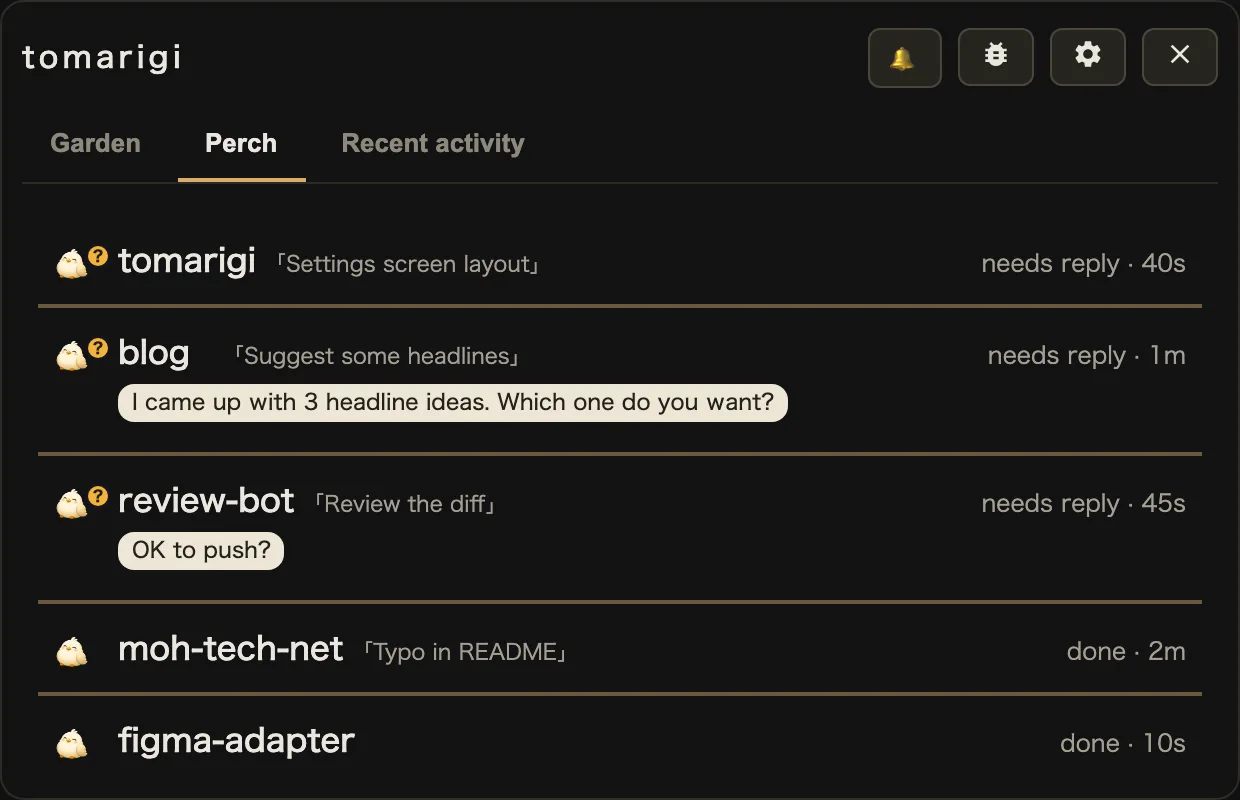
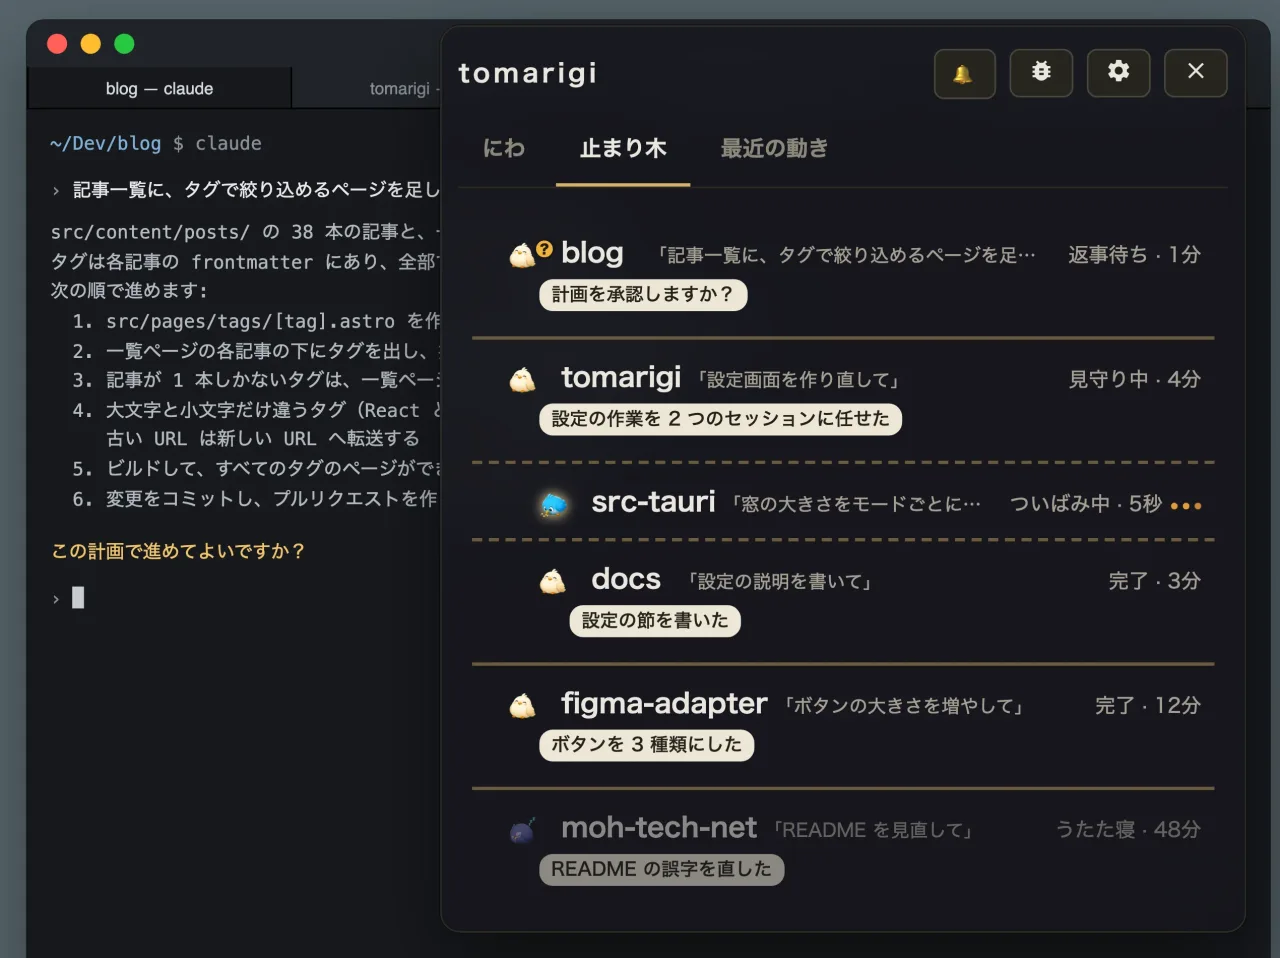
works: tomarigi を v0.15.2 とストアの 0.7.2 に合わせて書き直し、スクショを最新にする
デスクトップアプリ版は対応エージェント・OS・飛び先・コンシェルジュ・配布と自動更新を足し、
古くなった記述(Ghostty のみ・ソースからビルド・Jev)を消す。Chrome 拡張版は 3 タブ・
Codex 対応・BYOK の読み上げ要約に直す。画像は tomarigi-desktop の docs/images(日本語版)と
Chrome ウェブストアの掲載画像から取り、コンシェルジュの画像を足す。

diff --git a/src/content/works/2026/07-tomarigi/index.md b/src/content/works/2026/07-tomarigi/index.md
@@ -4,51 +4,57 @@ featured: 2
 personal: true
 startDate: 2026-07
 techs: ["Tauri 2", "Rust", "React", "TypeScript", "WXT", "IndexedDB", "Web Audio", "Document Picture-in-Picture", "File System Access API"]
-summary: AI エージェントのセッションを見守る macOS アプリ(OSS)と Chrome 拡張。止まり木にとまる鳥たちが、各セッションの状態を仕草で示す。
+summary: AI コーディングエージェントのセッションを見守るデスクトップアプリ(OSS)と Chrome 拡張。セッションごとに 1 羽の鳥がいて、作業中・返事待ち・完了を見分けられる。
 heroImage: ./desktop-garden.webp
 ---
 
-GitHub(macOS アプリ版 tomarigi-desktop): <https://github.com/mohhh-ok/tomarigi-desktop> (MIT)
+ダウンロード(デスクトップアプリ版): <https://moh-tech.net/tomarigi/desktop/>
+
+GitHub(デスクトップアプリ版 tomarigi-desktop): <https://github.com/mohhh-ok/tomarigi-desktop> (MIT)
 
 Chrome Web Store: <https://chromewebstore.google.com/detail/tomarigi/jgkjejameolpmmnohlgahonfejfefjgp>
 
-紹介ページ: <https://moh-tech.net/tomarigi/>
+紹介ページ(Chrome 拡張版): <https://moh-tech.net/tomarigi/>
 
 ## 概要
 
-Claude Code などの AI エージェントを走らせながら別の窓で作業していると、いま何をしているのか分からなくなる。止まり木の鳥たちがセッションごとの状態を仕草で表現し、ちらっと視線を送るだけで様子が分かるようにする。
+Claude Code などの AI エージェントを何本も走らせながら別の窓で作業していると、どのセッションが自分の返事を待っているのか分からなくなる。Tomarigi はセッションごとに 1 羽の鳥を出し、作業中・返事待ち・完了を見分けられるようにする。
 
-2026/09 に公開した macOS アプリ版(tomarigi-desktop)が本命で、MIT のオープンソース。先に作った Chrome 拡張版もある。
+2026/07 に Chrome 拡張版を作り、2026/09 にデスクトップアプリ版(tomarigi-desktop)を MIT のオープンソースで公開した。今はデスクトップアプリ版が中心で、2026/11 時点で v0.15.2。
 
-## macOS アプリ版(tomarigi-desktop)
+## デスクトップアプリ版(tomarigi-desktop)
 
-Tauri 2 で作った macOS アプリ。Claude Code と Codex のセッションを、常に最前面に置ける窓で見守る。
+Tauri 2 で作ったデスクトップアプリ。常に手前に出る窓の中で、各エージェントのセッションを見守る。
 
-- 「にわ」(Garden) にセッションごとに 1 羽ずつ鳥がいて、作業中・返事待ち・完了のどれなのかを一目で見分けられる。鳥をクリックすると、その Claude Code が動いている Ghostty のペインに移動する
-- エージェント側にフックや設定変更は要らない。`~/.claude/projects` と `~/.codex/sessions` のトランスクリプトを読むだけ
-- 窓はフローティング(フルスクリーンのアプリの上にも出る)と標準ウィンドウ(最大化できる)を切り替えられる。背景は半透明のすりガラス
-- Claude Code のセッション間メッセージで別のセッションに作業を渡して待っているセッションは「見守り中」になり、渡した先の鳥と一緒に角丸のブロックにまとまる
-- アイコンは鳥・ノーム・猫・ロボット・カエルから選べる(画像は gpt-image で生成)。UI は 43 言語で、英語が基本
+![にわ。ターミナルの上に鳥と吹き出しだけが出る](./desktop-garden.webp)
 
-![Perch タブ。セッションを一覧で見る](./desktop-perch.webp)
+- 対応するエージェントは Claude Code・Codex・Qwen Code・GitHub Copilot CLI・Gemini CLI・OpenCode・Cursor CLI。エージェント側のフックや設定の変更は要らず、各エージェントがローカルに残すセッションのファイルを読むだけ
+- 「にわ」では、使っていない間は鳥と吹き出しとハンドルだけが見え、それ以外の場所のクリックは下の窓に届く。作業の邪魔をせずに、どのセッションが返事を待っているかが分かる
+- 鳥を押すと、そのセッションが動いているターミナルのペインへ飛ぶ。Ghostty・iTerm2・ターミナル(Terminal.app)・WezTerm・tmux に対応し、kitty は設定を 2 行足すと飛べる。VS Code・Cursor の統合ターミナルは専用の拡張を入れると飛べる。Claude のデスクトップアプリで動くセッションは、デスクトップアプリでそのセッションを開く
+- 「止まり木」はセッションの一覧で、状態とターンの要約を 1 か所で読める。別のセッションに任せた仕事は、任せたセッションの下に字下げで並ぶ。「最近の動き」には、終わったもの・返事待ちになったものが新しい順に並ぶ
+- アイコンは鳥・小人・ネコ・ロボット・カエルから、プロジェクトごとに選べる(画像は gpt-image で生成)。UI は 43 言語
 
-OpenAI / Anthropic / TypeSafe の API キーを入れると、次の機能が増える。キーは macOS のキーチェーンに保存する。
+![止まり木。セッションごとに状態と要約が並ぶ](./desktop-perch.webp)
 
-- ターンの終わりの返答が自分への質問かどうかを TypeSafe の Jev で判定し、鳥に「?」を付ける。キーが無いときは、入力待ちの状態のセッションにだけ「?」が付く
-- ターンの終わりを要約したふきだし(聞かれている内容のふきだしは、質問ツールで止まっていればキーが無くても出る)
-- 読み上げで、ターンの終わりの要約を読む(読み上げ自体はキーが無くてもオンにでき、そのときは最後の 1 文を読む)
+OpenAI か Anthropic の API キー、または Ollama・LM Studio など OpenAI 互換のサーバーで動くローカルのモデルを設定すると、次の機能が増える。キーは OS のキーチェーンに保存する。
 
-動作環境は macOS で、ペインへの移動は Ghostty のみ対応。配布用のビルドはまだ無く、ソースからビルドして使う(手順は README)。
+- ターンが終わるたびに 1 回の問い合わせで、ターンを要約した吹き出しを出し、文章で聞かれた質問には鳥に「?」を付ける。同じ問い合わせで、そのターンの自分の発言が AI への暴言かどうかを判定し、暴言らしいときは鳥に怒りマークを付ける
+- コンシェルジュ(フクロウ)が全部のセッションをまとめて見て、次にやることを勧める。コンシェルジュを押すと、勧めたセッションのペインへ飛ぶ。コンシェルジュのタブでは窓がコンシェルジュの大きさまで縮み、全セッションの状態の行とおすすめだけを出す
+
+![コンシェルジュのタブ。おすすめと全セッションの状態が並ぶ](./desktop-concierge.webp)
+
+読み上げは OS の音声合成を使うので、キーが無くても使える。
+
+macOS・Windows・Linux 向けのビルドを GitHub の Releases に置いている。Windows と Linux 向けは実機ではまだ確かめておらず、鳥を押してもターミナルの窓を手前に出すところまで(tmux の中のセッションはペインまで飛ぶ)。v0.9.0 からはアプリが自分で新しい版を確かめて更新する。
 
 ## Chrome 拡張版
 
-![Chrome 拡張版](./hero.webp)
+![Chrome 拡張版のにわ](./hero.webp)
 
-鳥たちがセッションごとの状態(作業中 / 許可待ち / 立ち往生 / 完了 / うたた寝)を仕草で示す。Document Picture-in-Picture の小窓に切り替えれば、ターミナルの上に常時最前面で置ける。
+先に作った Chrome 拡張版。Document Picture-in-Picture の小窓にすると、ターミナルの上に常に手前で置ける。2026/09 の 0.7.2 が最新。
 
-- **サーバー・ネイティブ常駐なし**。File System Access API で `~/.claude/projects` などのフォルダを直接読み、ブラウザ内で完結する。複数フォルダを登録して並行監視できる
-- **manifest 権限ゼロ**。API キーも不要で、状態判定はローカルヒューリスティックのみ
-- 状態遷移は Web Audio の合成音で通知(音源ファイルなし・ミュート可)
-- サブエージェントは親セッションの下に「ひな」として表示
-- データソースはアダプタ化し、将来 Claude Code 以外のエージェントにも広げられる形にした
-- 43 ロケール対応。`scripts/locales/*.mjs` に機能グループ単位で分割し、1キーごとに 43 ロケール分を inline で持つ形にしている。`gen:locales` で `public/_locales/` を再生成、`verify:locales` で全キー完全一致を強制
+- サーバーやネイティブの常駐プロセスは無い。File System Access API で Claude Code の `~/.claude/projects` や Codex の `~/.codex/sessions` を直接読み、ブラウザの中で完結する。複数のフォルダを登録して並行して見守れる
+- manifest の権限はゼロ。状態の判定はローカルのヒューリスティックだけで、API キーは要らない
+- 「にわ」「止まり木」「最近の動き」の 3 つのタブを持つ。「にわ」では鳥をドラッグして好きな場所に置け、うたた寝中の鳥は右下の巣箱にまとまる。サブエージェントは親セッションの下に「ひな」として出る
+- 状態が変わると Web Audio で合成した鳴き声で知らせる(音源ファイルなし・ミュート可)。設定で入れると、入力待ちと完了を読み上げる。OpenAI か Anthropic の API キーを入れたときだけ、完了の読み上げが AI の要約になる
+- アイコンセットはデスクトップアプリ版と同じ 5 種類。43 ロケールに対応する
